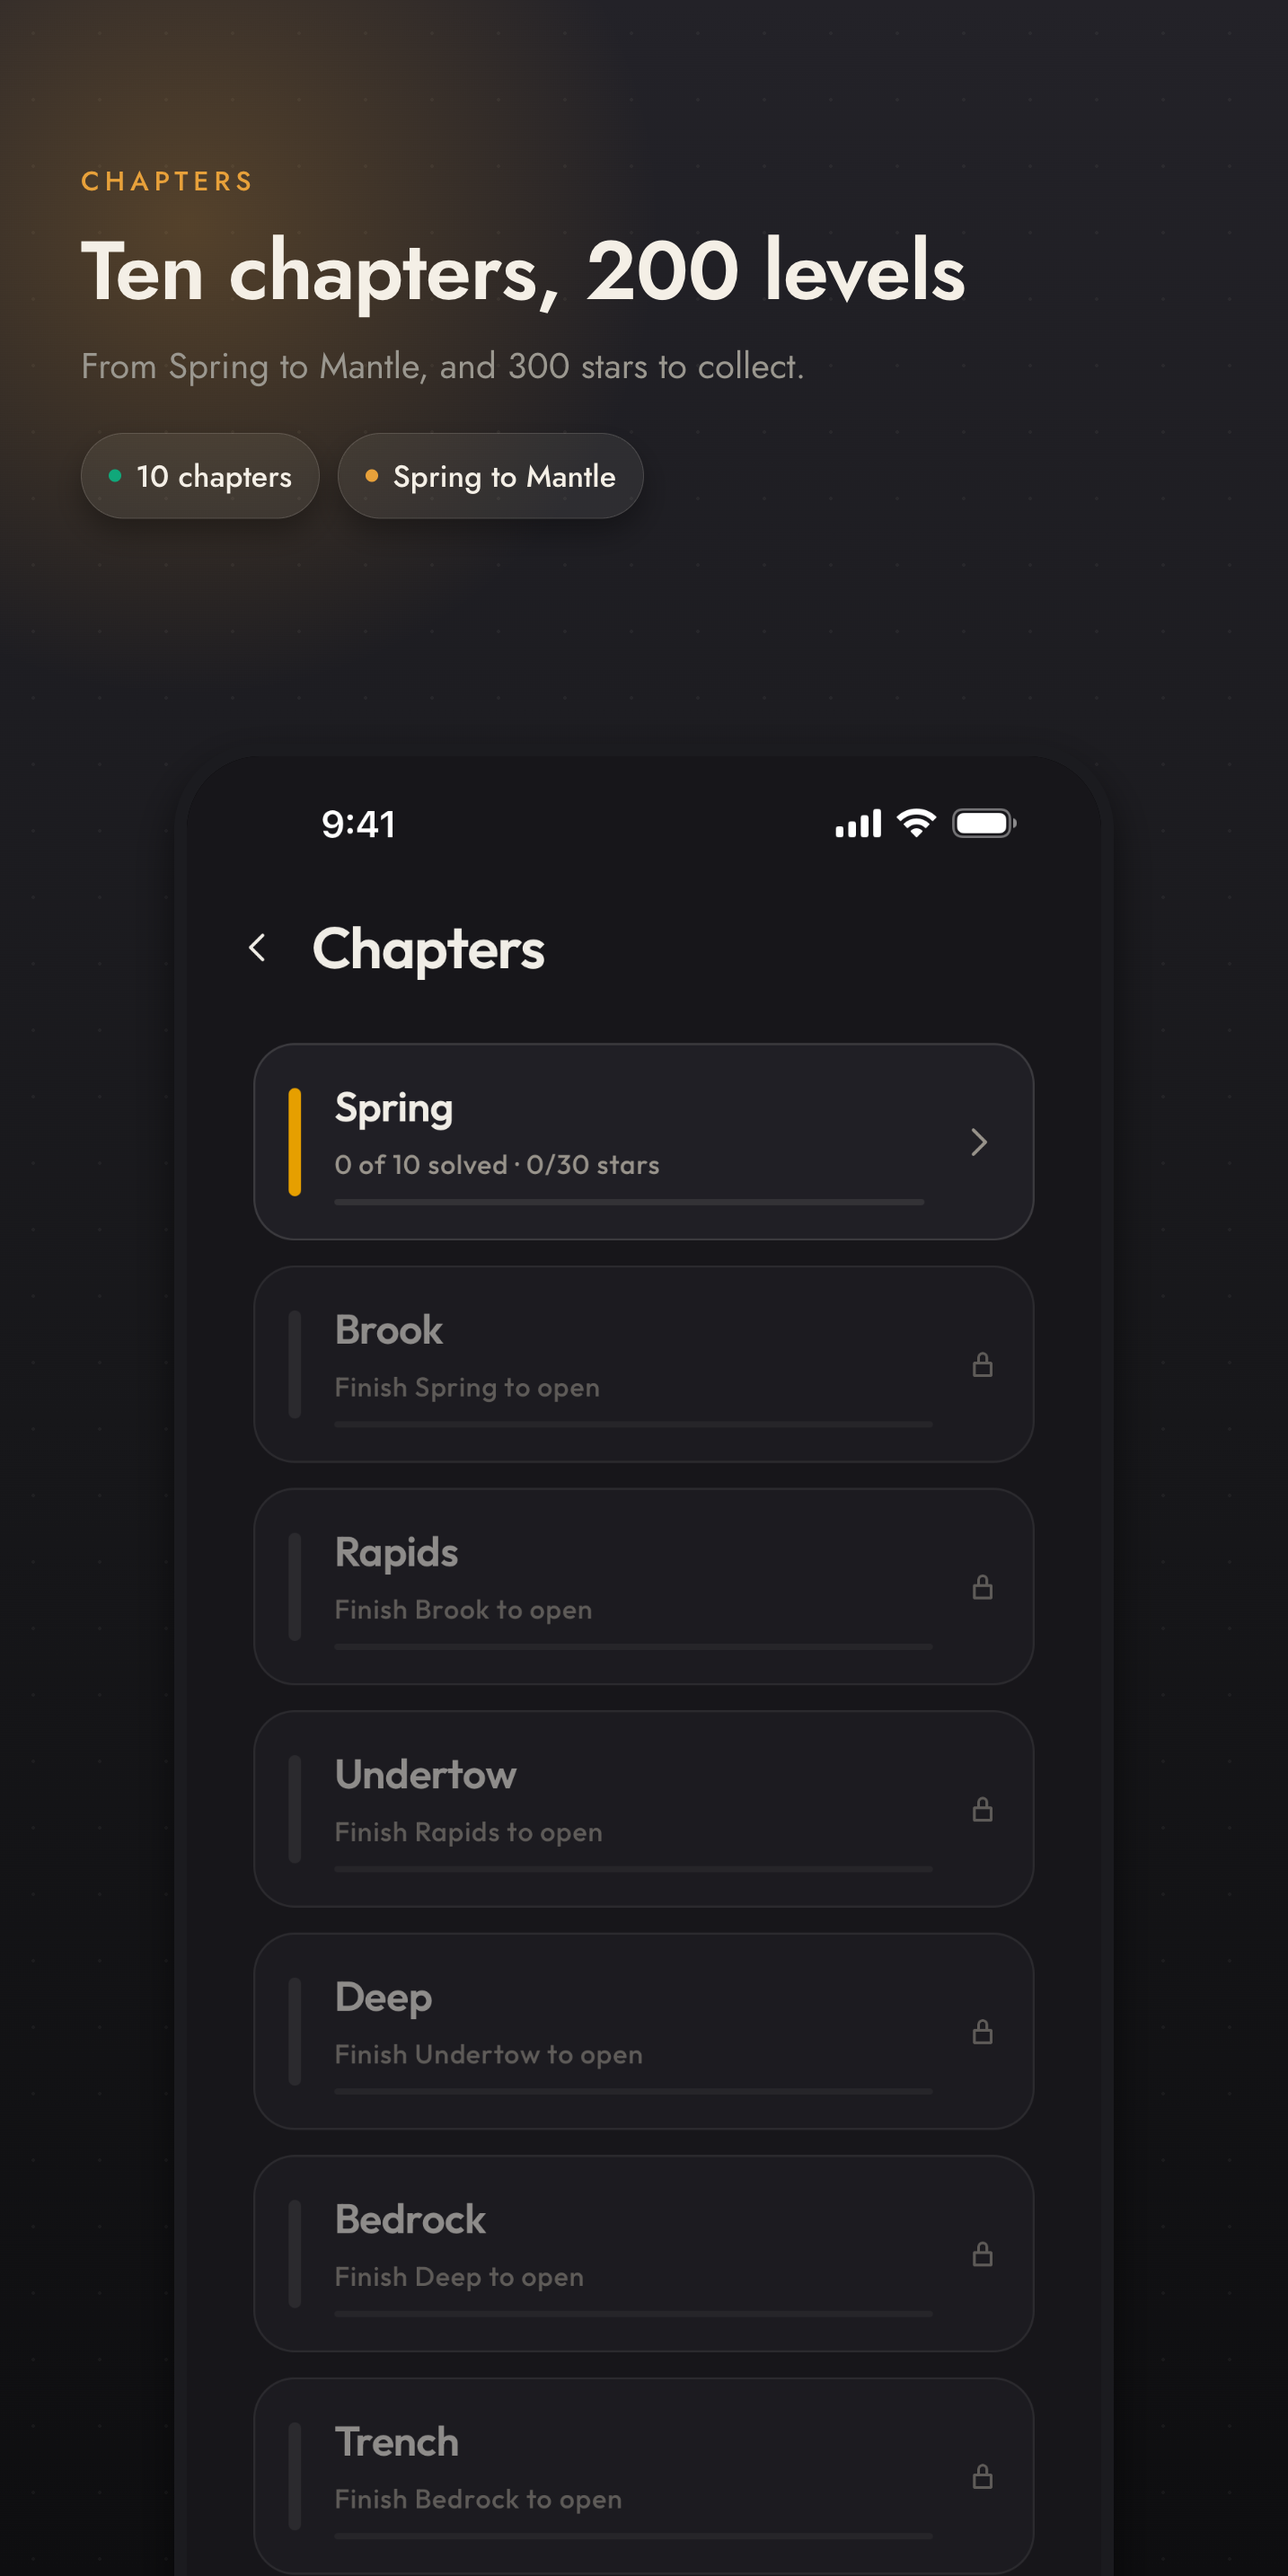
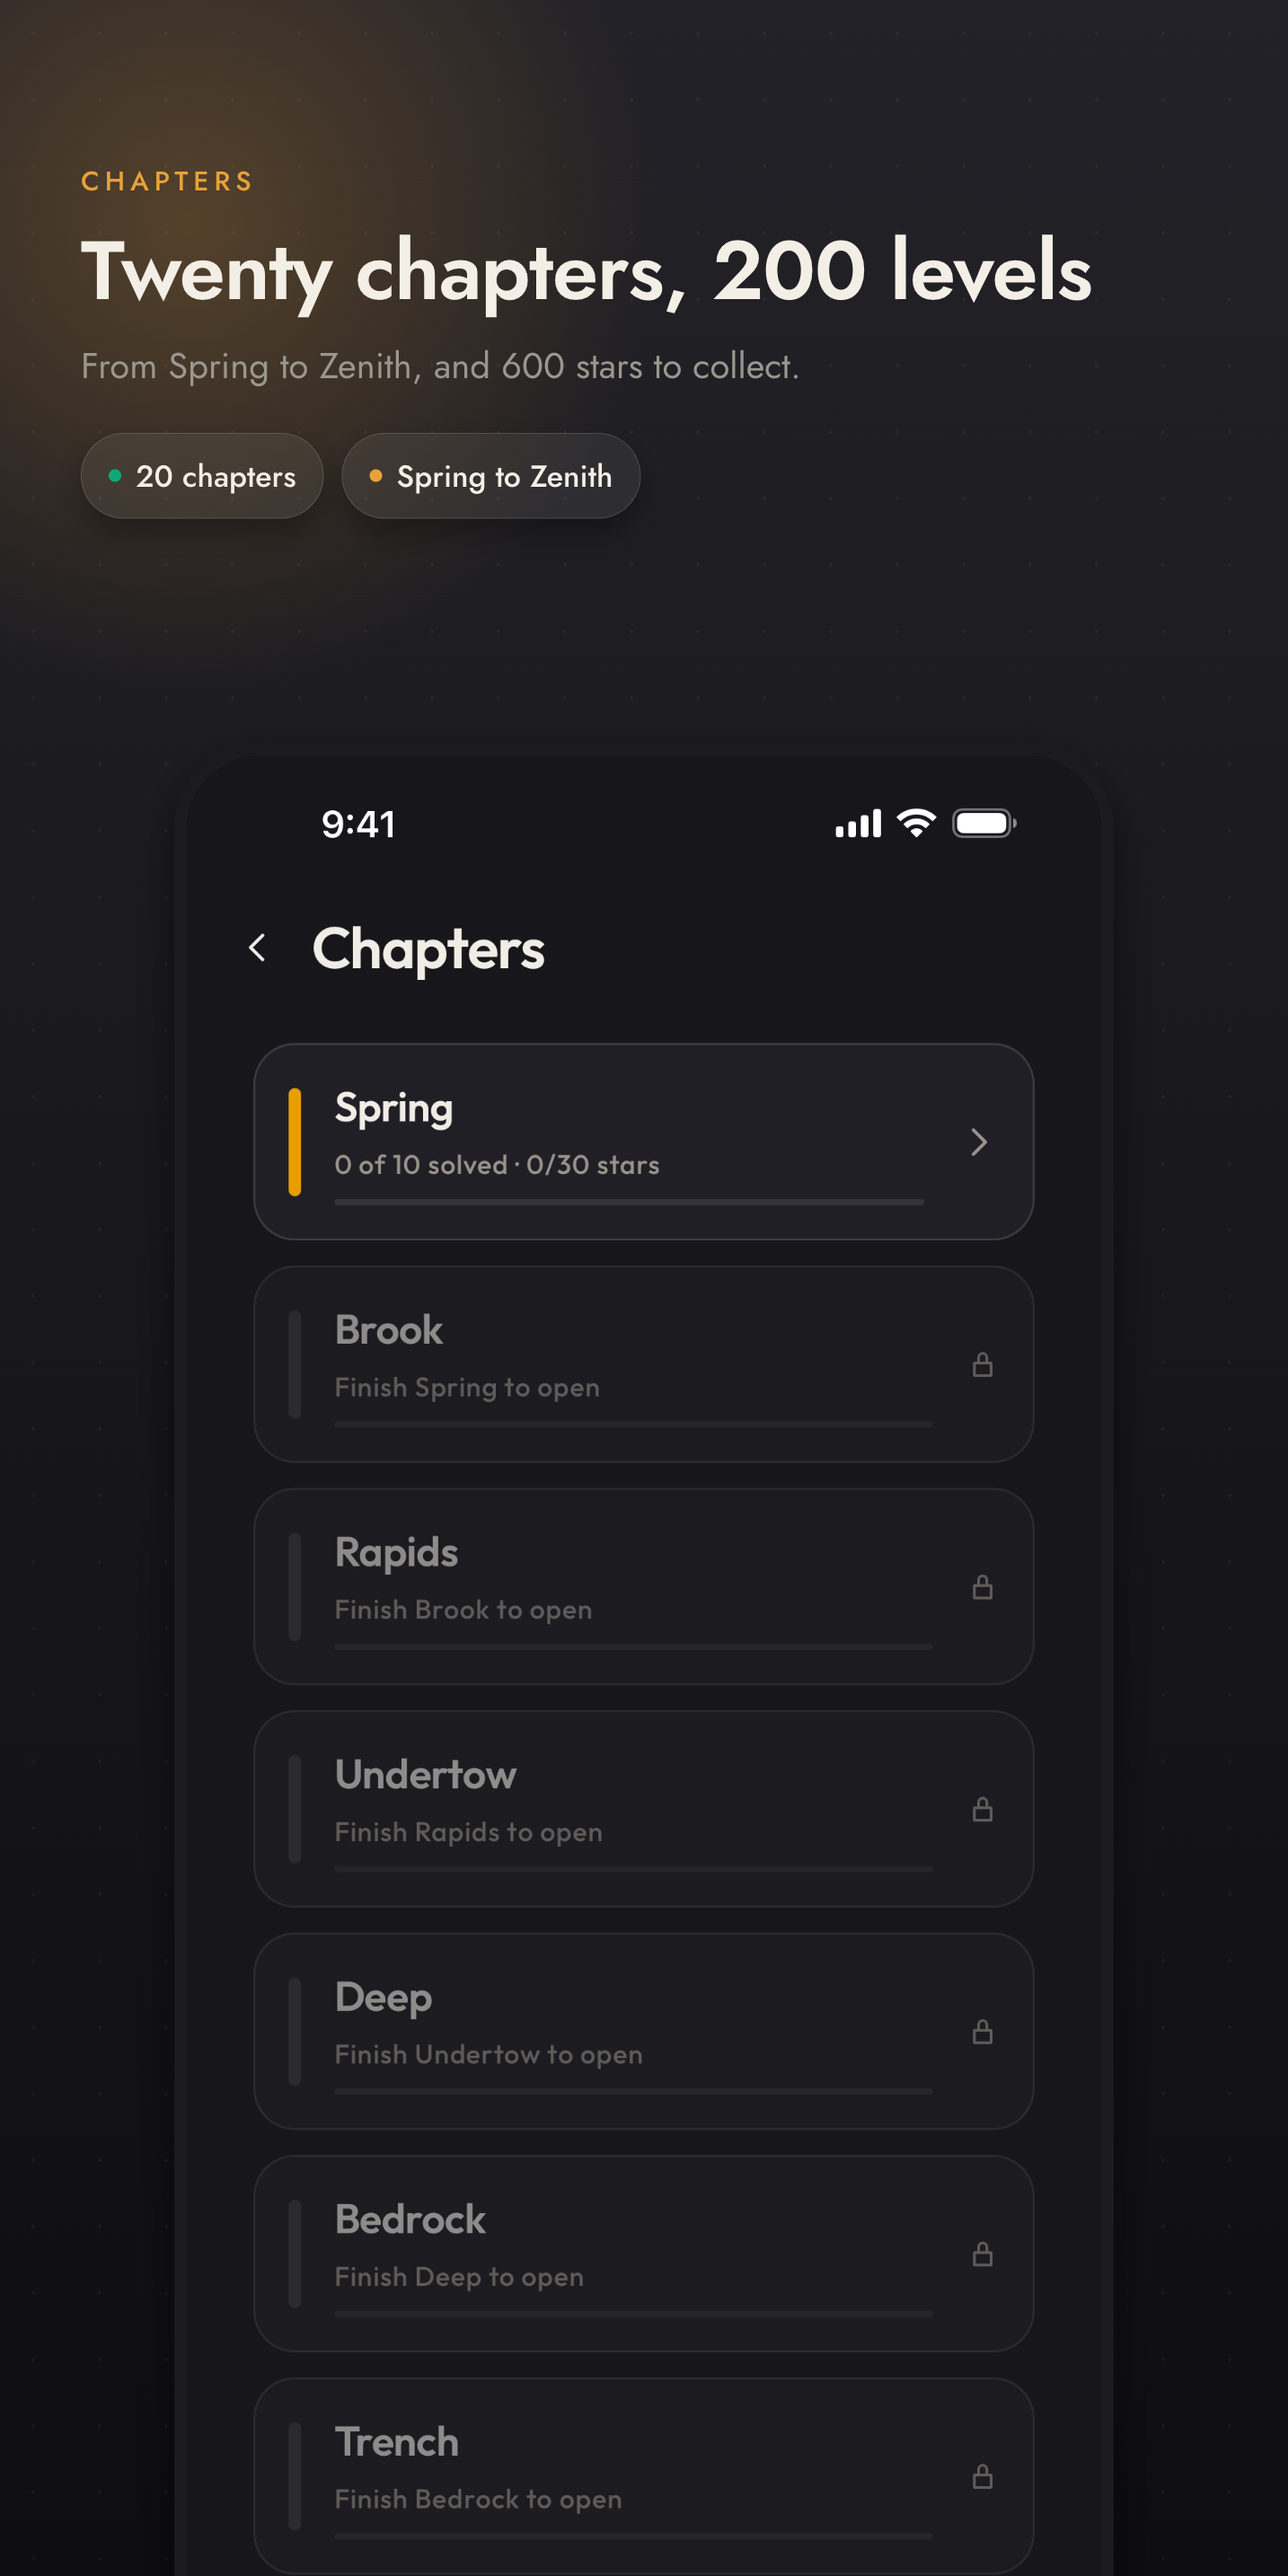
Correct the store screenshot captions for 1.1.0, and keep the exports
The App Store screenshot designs still described 1.0: 100 levels, 300
stars, ten chapters ending at Mantle, unlimited undo, and "no ads
mid-level", which implies ads elsewhere. The game ships 200 levels, 600
stars and twenty chapters from Spring to Zenith, allows five undos a
level, and has no ads at all. The captions are fixed in the Claude Design
project and both sets are re-exported:

- docs/store/app-store/iphone (1320 x 2868) and ipad (2064 x 2752), JPEG
  without alpha as App Store Connect wants.
- docs/store/play/screenshots, the iPhone designs rendered 1434 wide so
  they stay inside Play's 2:1 limit.

The phone screens inside the designs are still 1.0.1 captures; the docs
say so and where to replace them.

Changed region(s): [[0.0921, 0.0931, 0.8591, 0.1552]]

diff --git a/docs/store/play-release.md b/docs/store/play-release.md
@@ -113,12 +113,12 @@ The screenshots are the six iPhone App Store designs from the Claude Design proj
 game App Store screenshots", each re-rendered 1434 wide instead of 1320: Play rejects anything
 taller than 2:1, and the frames are fluid, so the phone re-centres rather than stretching.
 
-**Fix their captions before the production release.** They date from 1.0 and Play's metadata
-policy treats inaccurate claims as misleading: "100 hand-built levels" (200), "300 stars total"
-and "300 stars to collect" (600), "Ten chapters" and "Spring to Mantle" (twenty, Spring to
-Zenith), "Unlimited undo" (five per level — the same shot shows "Undo 5"), and "no ads
-mid-level" (there are no ads at all). The App Store set carries the same captions. The phone
-screens inside them are 1.0.1 captures, so the home screen reads `/100` and `/300`.
+Their captions were corrected for 1.1.0 on 18 Nov 2026: 200 levels, 600 stars, twenty chapters
+from Spring to Zenith, "Undo and restart" instead of "Unlimited undo" (it is five per level),
+and "no ads" instead of "no ads mid-level". The App Store exports of the same designs are in
+`docs/store/app-store/`. The phone screens inside them are still 1.0.1 captures, so the home
+screen reads `/100` and `/300`; swap those images in the design once 1.1.0 runs on a simulator
+or device.
 
 **Category:** Game → Puzzle. **Contact email:** biszaalgames@gmail.com. **Website:**
 <https://www.biszaaltech.com/games/cascade>.

diff --git a/docs/store/release-checklist.md b/docs/store/release-checklist.md
@@ -59,15 +59,19 @@ If what the app sends changes, update the page and these answers before that bui
 
 ### Screenshots
 
-Upload from `e2e/shots` (exported by `testG_storeTour`):
+Upload from `docs/store/app-store/`, in file order (01 home … 06 chapters). They are JPEG with
+no alpha, exported from the Claude Design project "Cascade game App Store screenshots", whose
+captions were corrected for 1.1.0 on 18 Nov 2026:
 
-| Display | Required size | Source simulator |
+| Display | Required size | Folder |
 |---|---|---|
-| iPhone 6.9" | 1320 × 2868 | `AppStore-6.9` (iOS 18.5) |
-| iPad 13" | 2064 × 2752 | `AppStore-iPad13` (iOS 18.5) |
+| iPhone 6.9" | 1320 × 2868 | `docs/store/app-store/iphone/` |
+| iPad 13" | 2064 × 2752 | `docs/store/app-store/ipad/` |
 
-Order: home, sorting, face-down tokens, anchors, anchors and fog, chapters. The
-`verify-*` images are test evidence, not store screenshots — do not upload them.
+The phone screens inside the designs are still 1.0.1 captures from `testG_storeTour`
+(`e2e/shots`), so the home screen reads `/100` and `/300`. Replace those images in the design
+once 1.1.0 runs on a simulator, then re-export. EAS Metadata does not upload screenshots; they
+go in App Store Connect by hand, on the version being submitted.
 
 ### Pricing and availability
 
